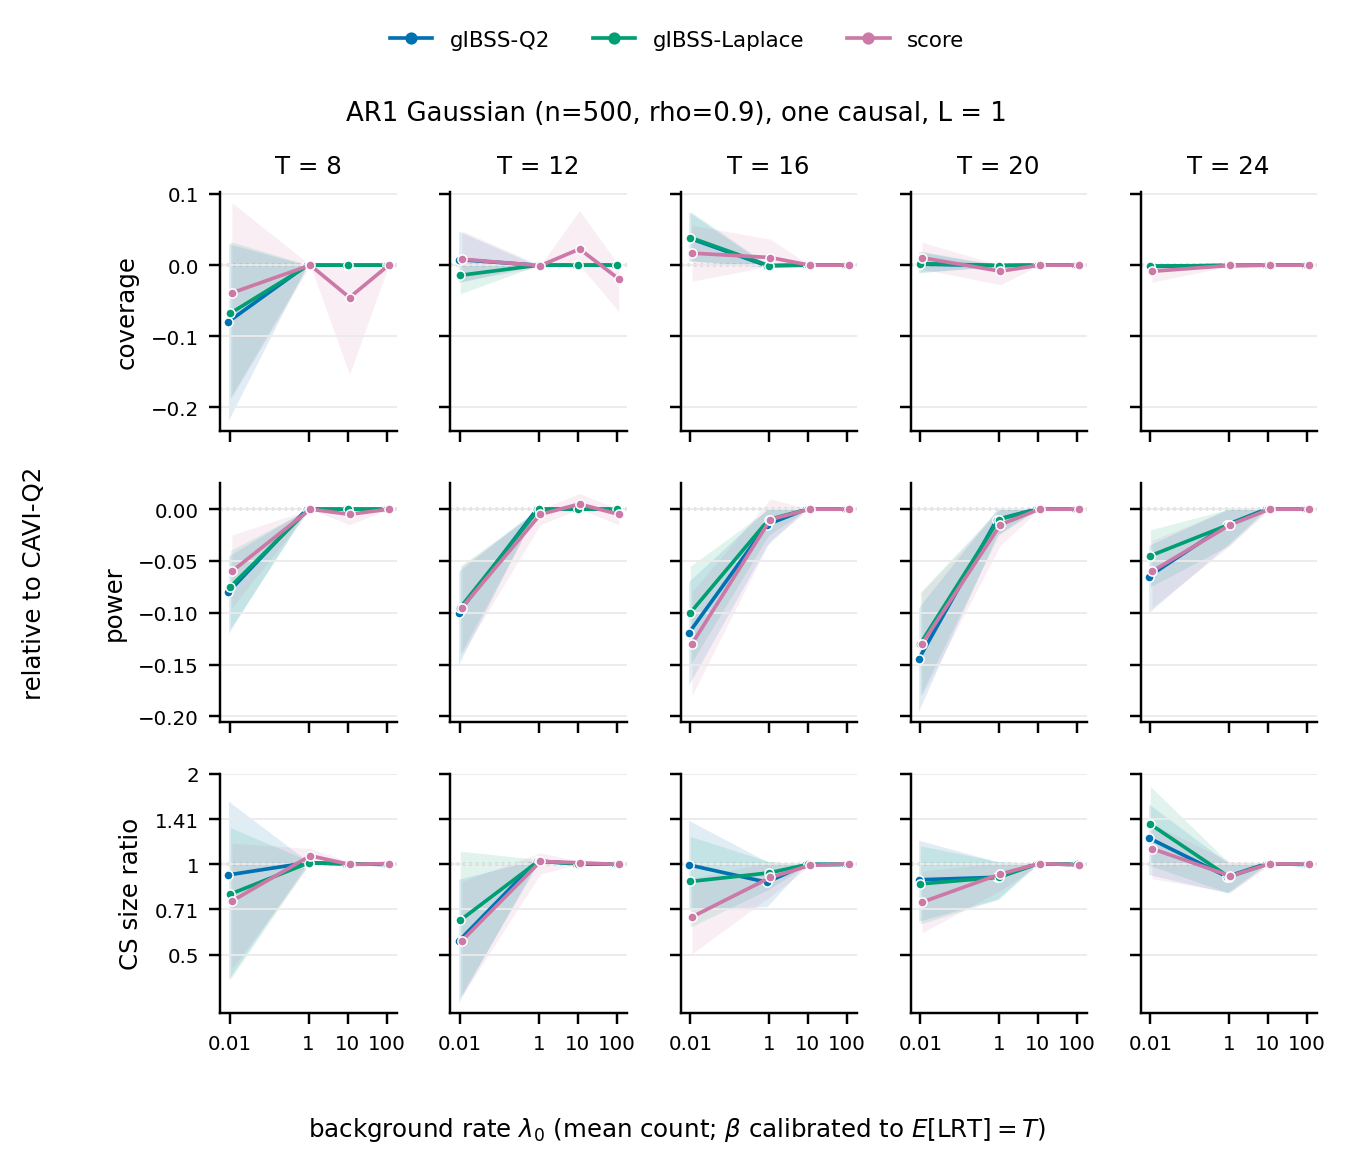
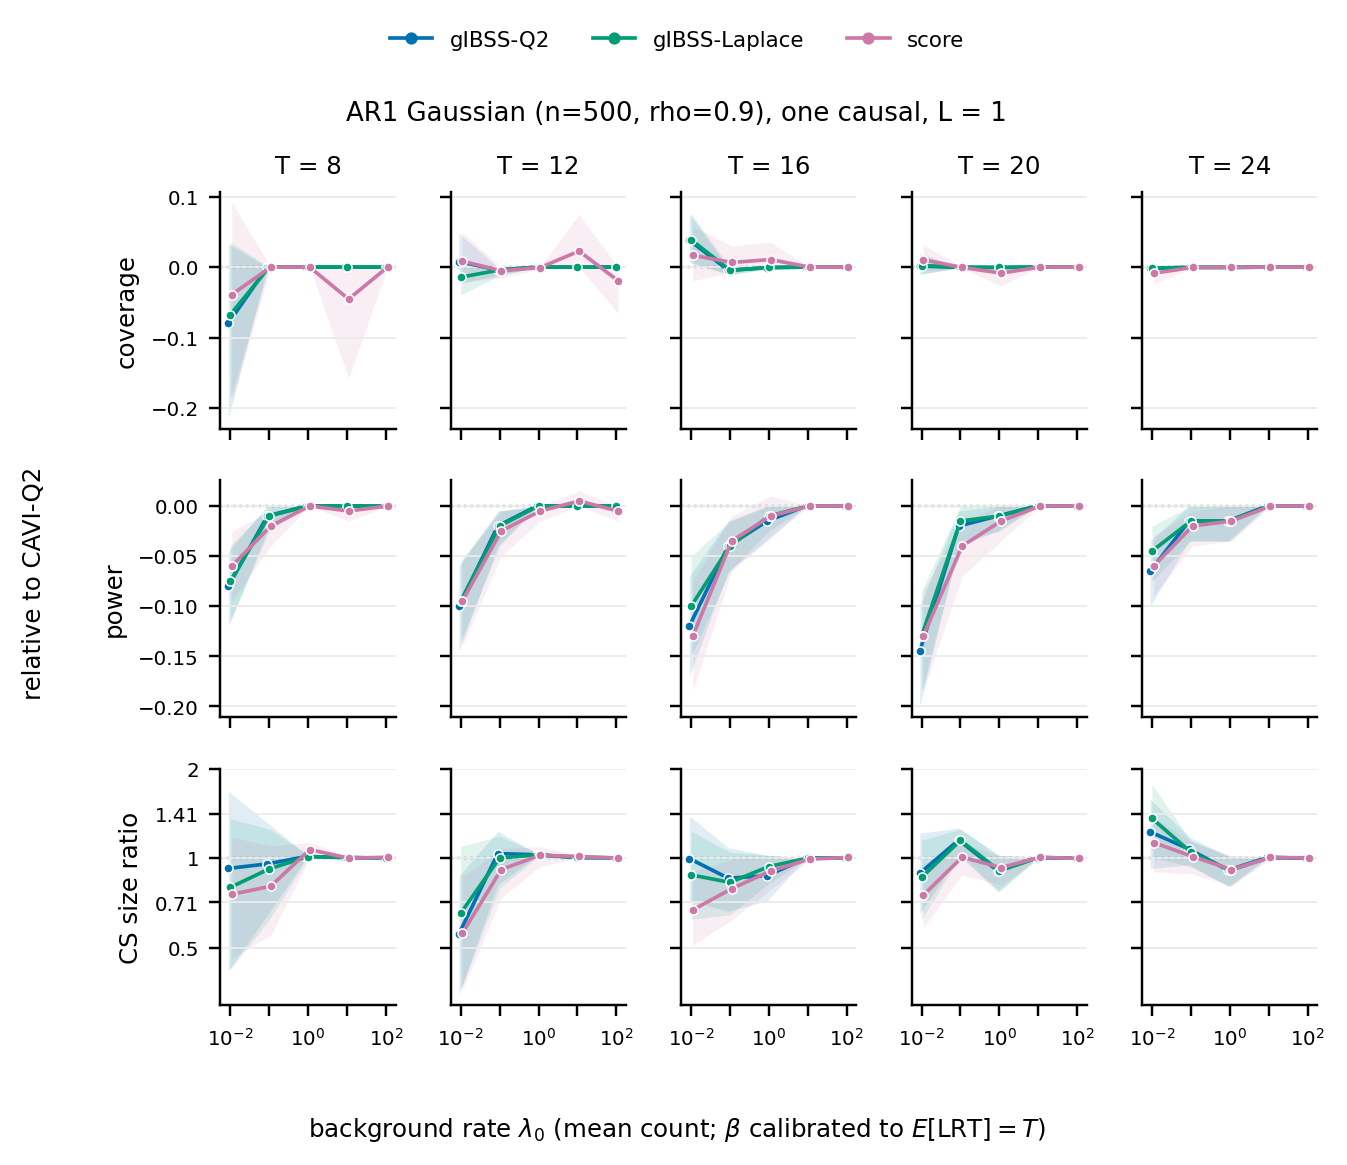
feat(twogroup): 025 rate.qmd with lambda0 = 0.1 (five rate columns)

diff --git a/twogroup_experiments/analysis/poisson_susie_simulations/rate_pip.py b/twogroup_experiments/analysis/poisson_susie_simulations/rate_pip.py
@@ -168,7 +168,7 @@ def survival_figure(floor: float = 1e-4):
             _, fits = load(f"025-rate-{d}" + ("" if L == 5 else "-ser"))
             fits = fits.filter(~pl.col("null"))
             for m in ARMS:
-                for grp, filt in (("low", pl.col("lambda0") < 0.1), ("high", pl.col("lambda0") >= 1)):
+                for grp, filt in (("low", pl.col("lambda0") < 1), ("high", pl.col("lambda0") >= 1)):
                     x = np.sort(np.maximum(fits.filter((pl.col("method") == m) & filt)["max_pip"].to_numpy(), floor))
                     if x.size == 0:
                         continue
@@ -190,7 +190,7 @@ def survival_figure(floor: float = 1e-4):
                 ax.set_ylabel(f"L = {L}\nshare of fits above x", fontsize=8)
     from matplotlib.lines import Line2D
     handles = [Line2D([], [], color=COLOR[m], lw=1.2, label=LABEL[m]) for m in ARMS]
-    handles += [Line2D([], [], color="0.3", ls="-", lw=1.2, label=r"$\lambda_0 = 0.01$"),
+    handles += [Line2D([], [], color="0.3", ls="-", lw=1.2, label=r"$\lambda_0 < 1$"),
                 Line2D([], [], color="0.3", ls="--", lw=1.2, label=r"$\lambda_0 \geq 1$")]
     fig.legend(handles=handles, loc="upper center", ncol=len(handles), fontsize=7, frameon=False)
     fig.tight_layout(rect=(0, 0, 1, 0.94))
@@ -204,7 +204,7 @@ def share_table() -> pl.DataFrame:
         for L in (1, 5):
             _, fits = load(f"025-rate-{d}" + ("" if L == 5 else "-ser"))
             fits = fits.filter(~pl.col("null")).with_columns(
-                pl.when(pl.col("lambda0") < 0.1).then(pl.lit("0.01")).otherwise(pl.lit(">= 1")).alias("lambda0"))
+                pl.when(pl.col("lambda0") < 1).then(pl.lit("< 1")).otherwise(pl.lit(">= 1")).alias("lambda0"))
             for (m, g), h in fits.group_by("method", "lambda0"):
                 rows.append({"design": DESIGN_SHORT[d], "L": L, "arm": LABEL[m], "lambda0": g,
                              "fits": h.height, "≤ 0.01": float((h["max_pip"] <= 0.01).mean()),
@@ -245,6 +245,7 @@ def tv_survival_figure(design: str, L: int = 5, bars=BARS, floor: float = 1e-4):
             ax.set_xscale("log")
             ax.set_yscale("log")
             ax.set_xlim(floor, 1)
+            ax.set_xticks([1e-4, 1e-2, 1.0])
             ax.set_ylim(1e-3, 1.05)
             ax.grid(True, which="major", alpha=0.25)
             ax.tick_params(labelsize=6.5)

diff --git a/twogroup_experiments/analysis/poisson_susie_simulations/rate_cs.py b/twogroup_experiments/analysis/poisson_susie_simulations/rate_cs.py
@@ -211,7 +211,8 @@ def draw(df: pl.DataFrame, title: str):
                 ax.set_yticklabels(["0.5", "0.71", "1", "1.41", "2"])
             ax.set_xscale("log")
             ax.set_xticks(lams)
-            ax.set_xticklabels([f"{v:g}" for v in lams], fontsize=6.5)
+            ax.set_xticklabels([rf"$10^{{{k}}}$" if k % 2 == 0 else "" for k in (round(math.log10(v)) for v in lams)],
+                               fontsize=6.5)
             ax.minorticks_off()
             ax.tick_params(axis="y", labelsize=6.5)
             ax.spines[["top", "right"]].set_visible(False)
